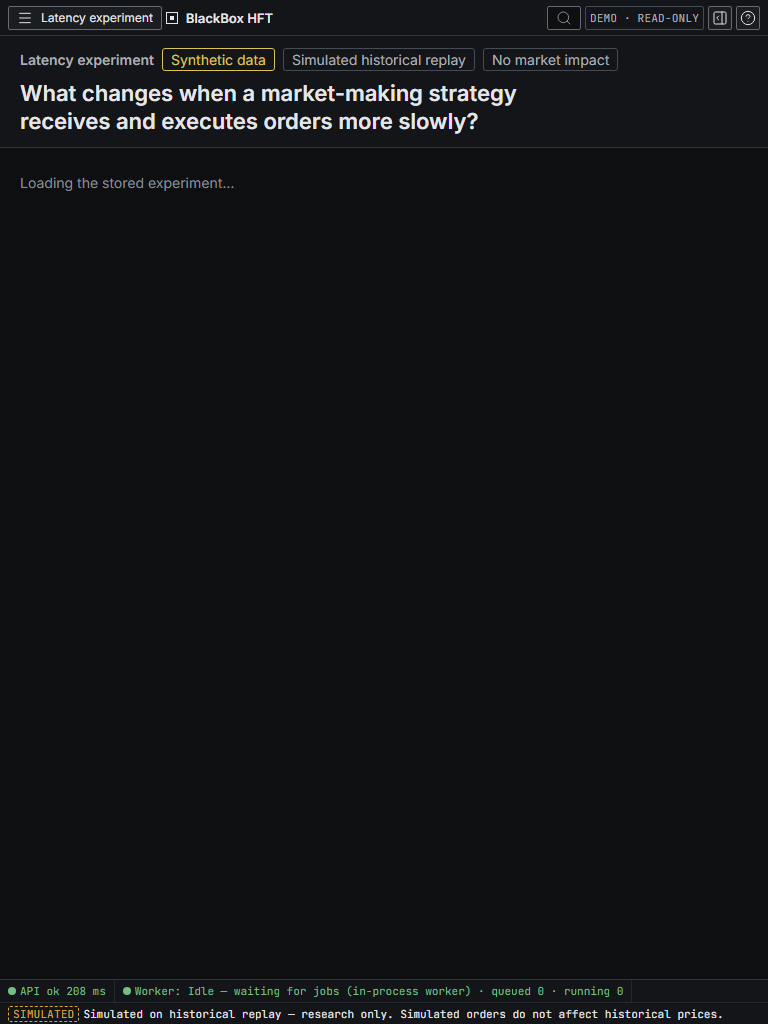
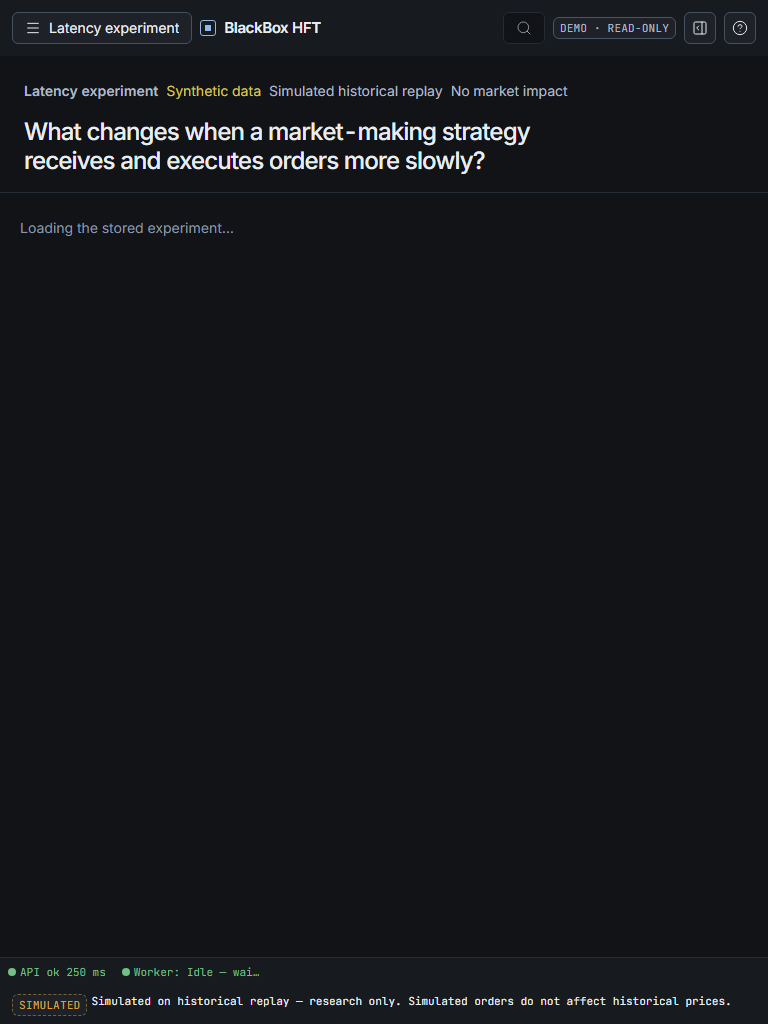
Production acceptance: UI polish release a665991

Changed region(s): [[0.0, 0.0, 1.0, 0.1875], [0.0, 0.9375, 0.9375, 1.0], [0.0312, 0.2188, 0.2812, 0.25]]

diff --git a/docs/rebuild/PRODUCTION_ACCEPTANCE.md b/docs/rebuild/PRODUCTION_ACCEPTANCE.md
@@ -38,3 +38,10 @@ To roll the frontend back, promote the previous Vercel production deployment. No
 
 - Keyed submission → result was verified locally (RESEARCH_JOURNEY.md, Playwright `research.spec.ts` in CI), not against production, to save free-tier budget.
 - Render cold start was not measured: the instance was warm.
+
+## Second release: UI polish (2026-11-15)
+
+Commit `a665991` (refined design tokens and shell; calmer Explore hero with a three-metric result strip).
+CI run 43693354372 all green; image `sha256:212495fa…c659cc1` deployed to Render (`live`); smoke 8/8
+PASS; `/status` reports `git_sha=a665991…`; Vercel production `blackbox-ju4q5fzqt…` Ready;
+`npm run test:prod` 7/7 PASS. Local Playwright 7/7, vitest 111/111, `tsc` clean.
